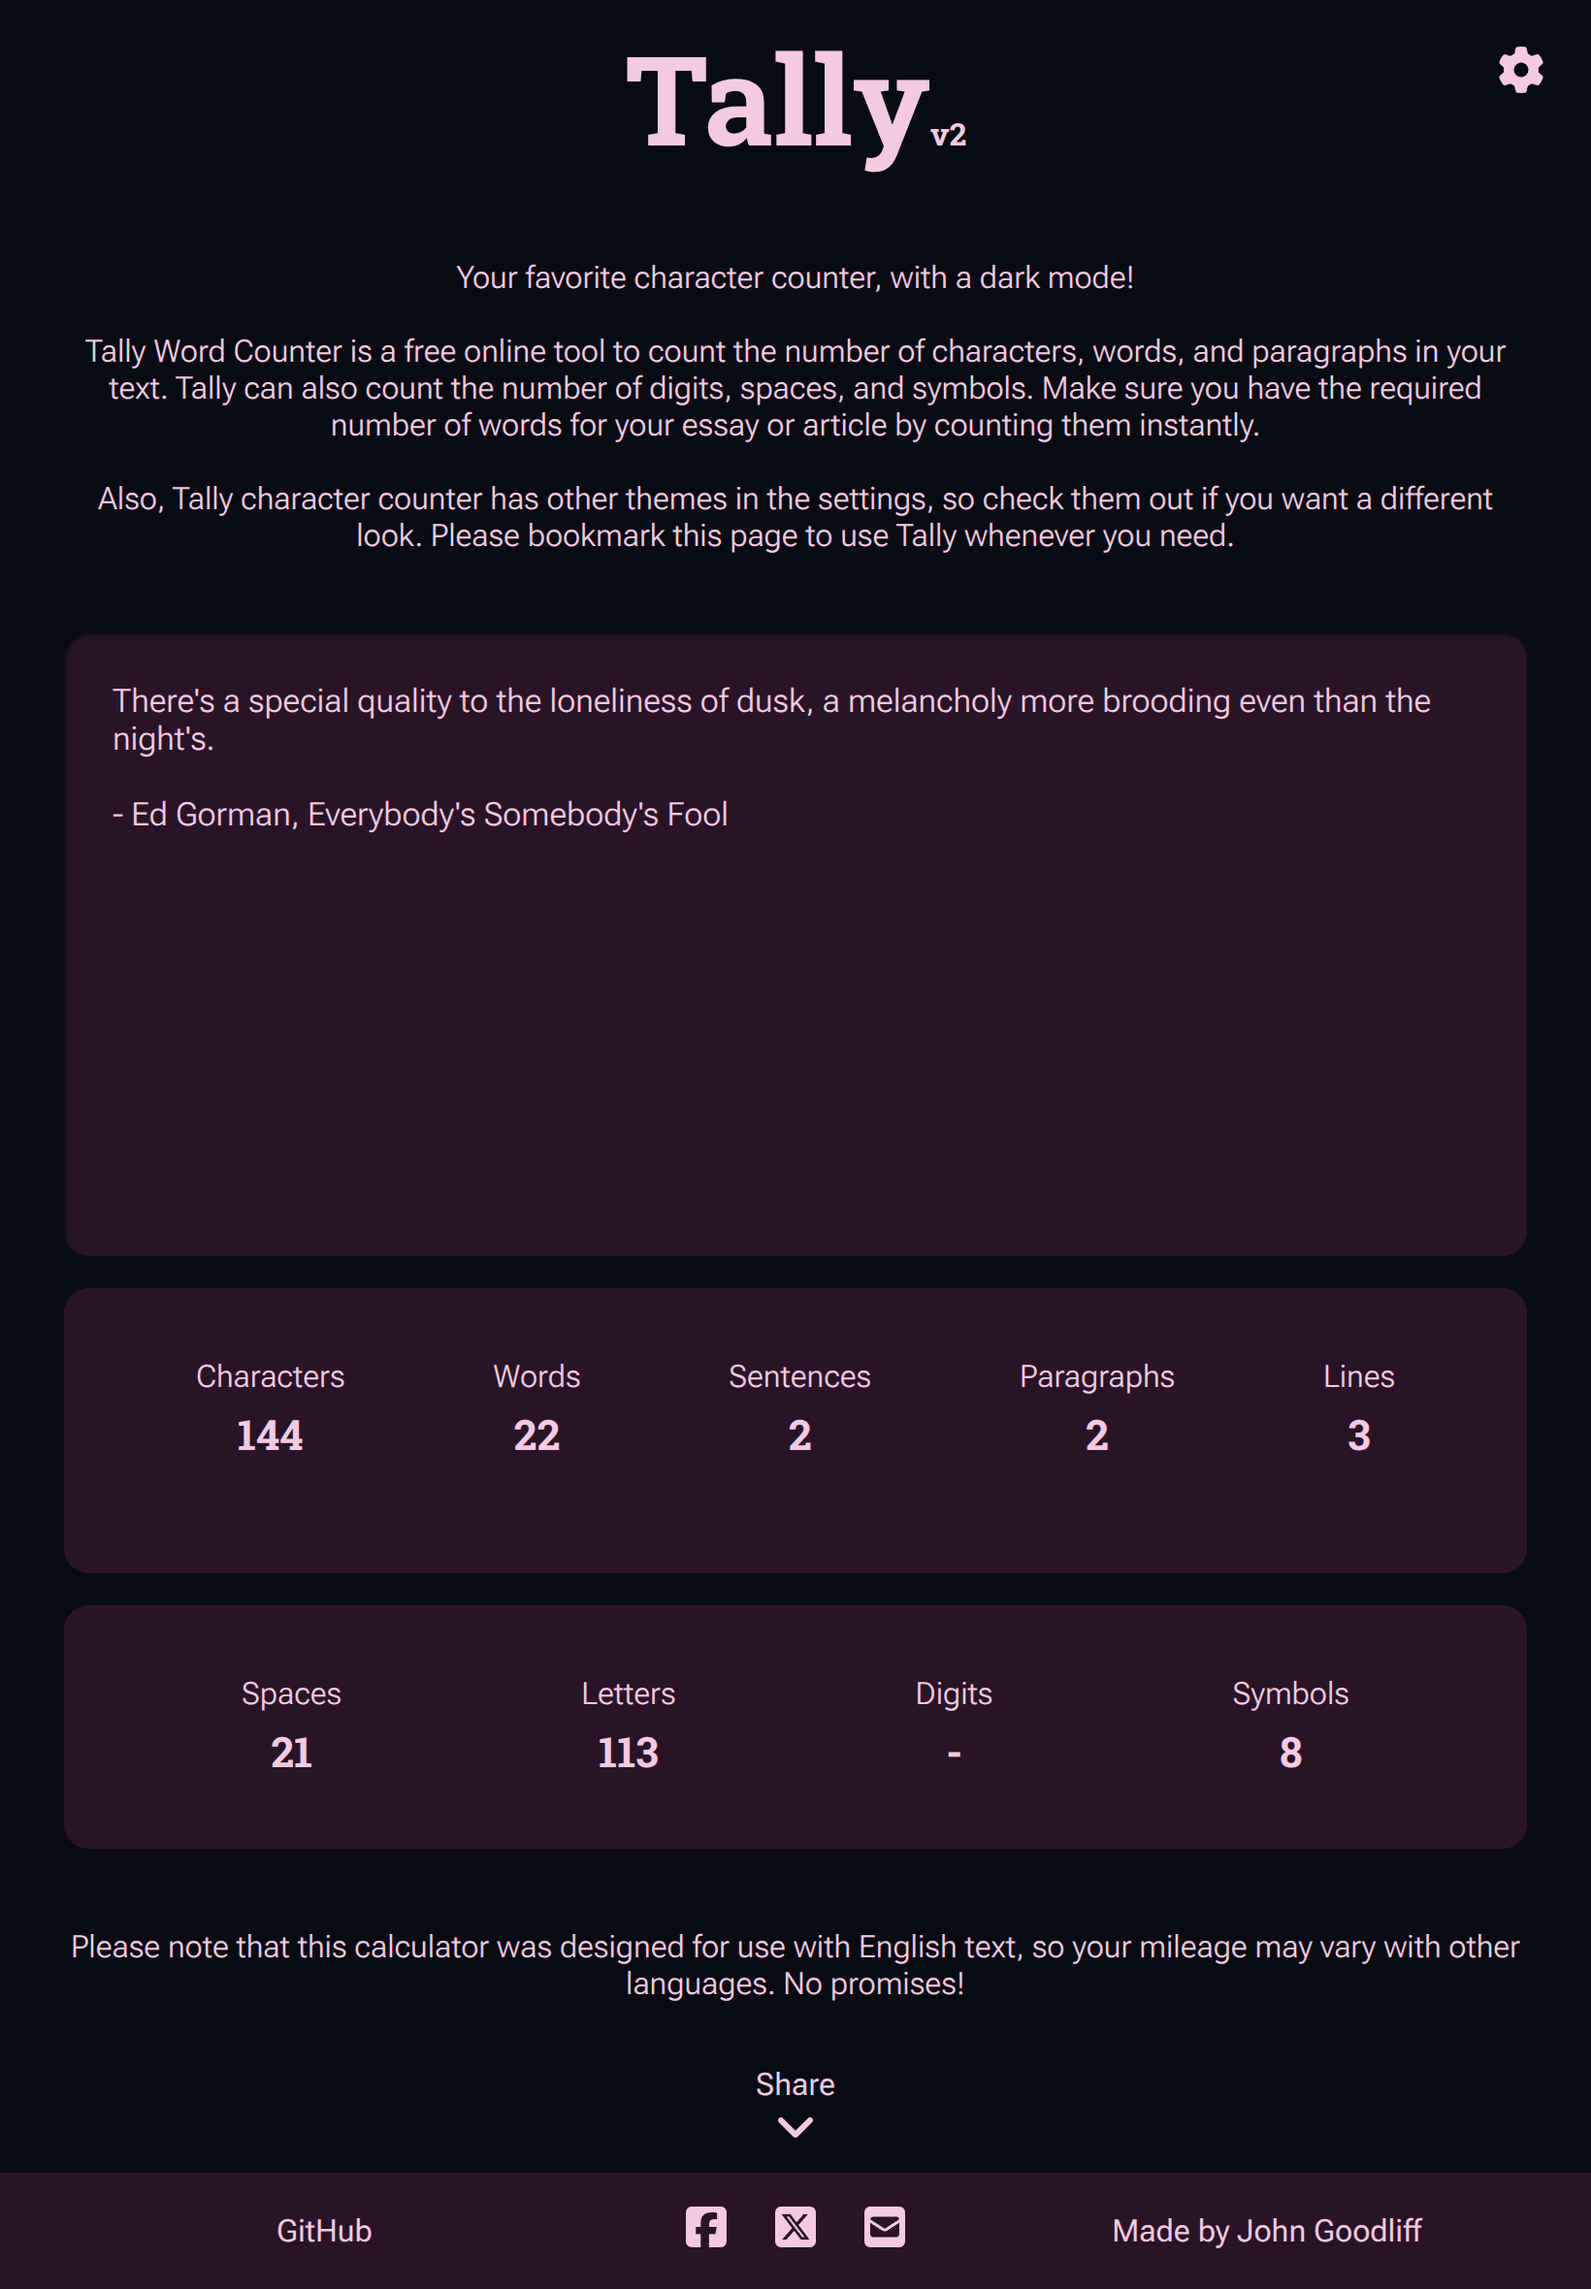
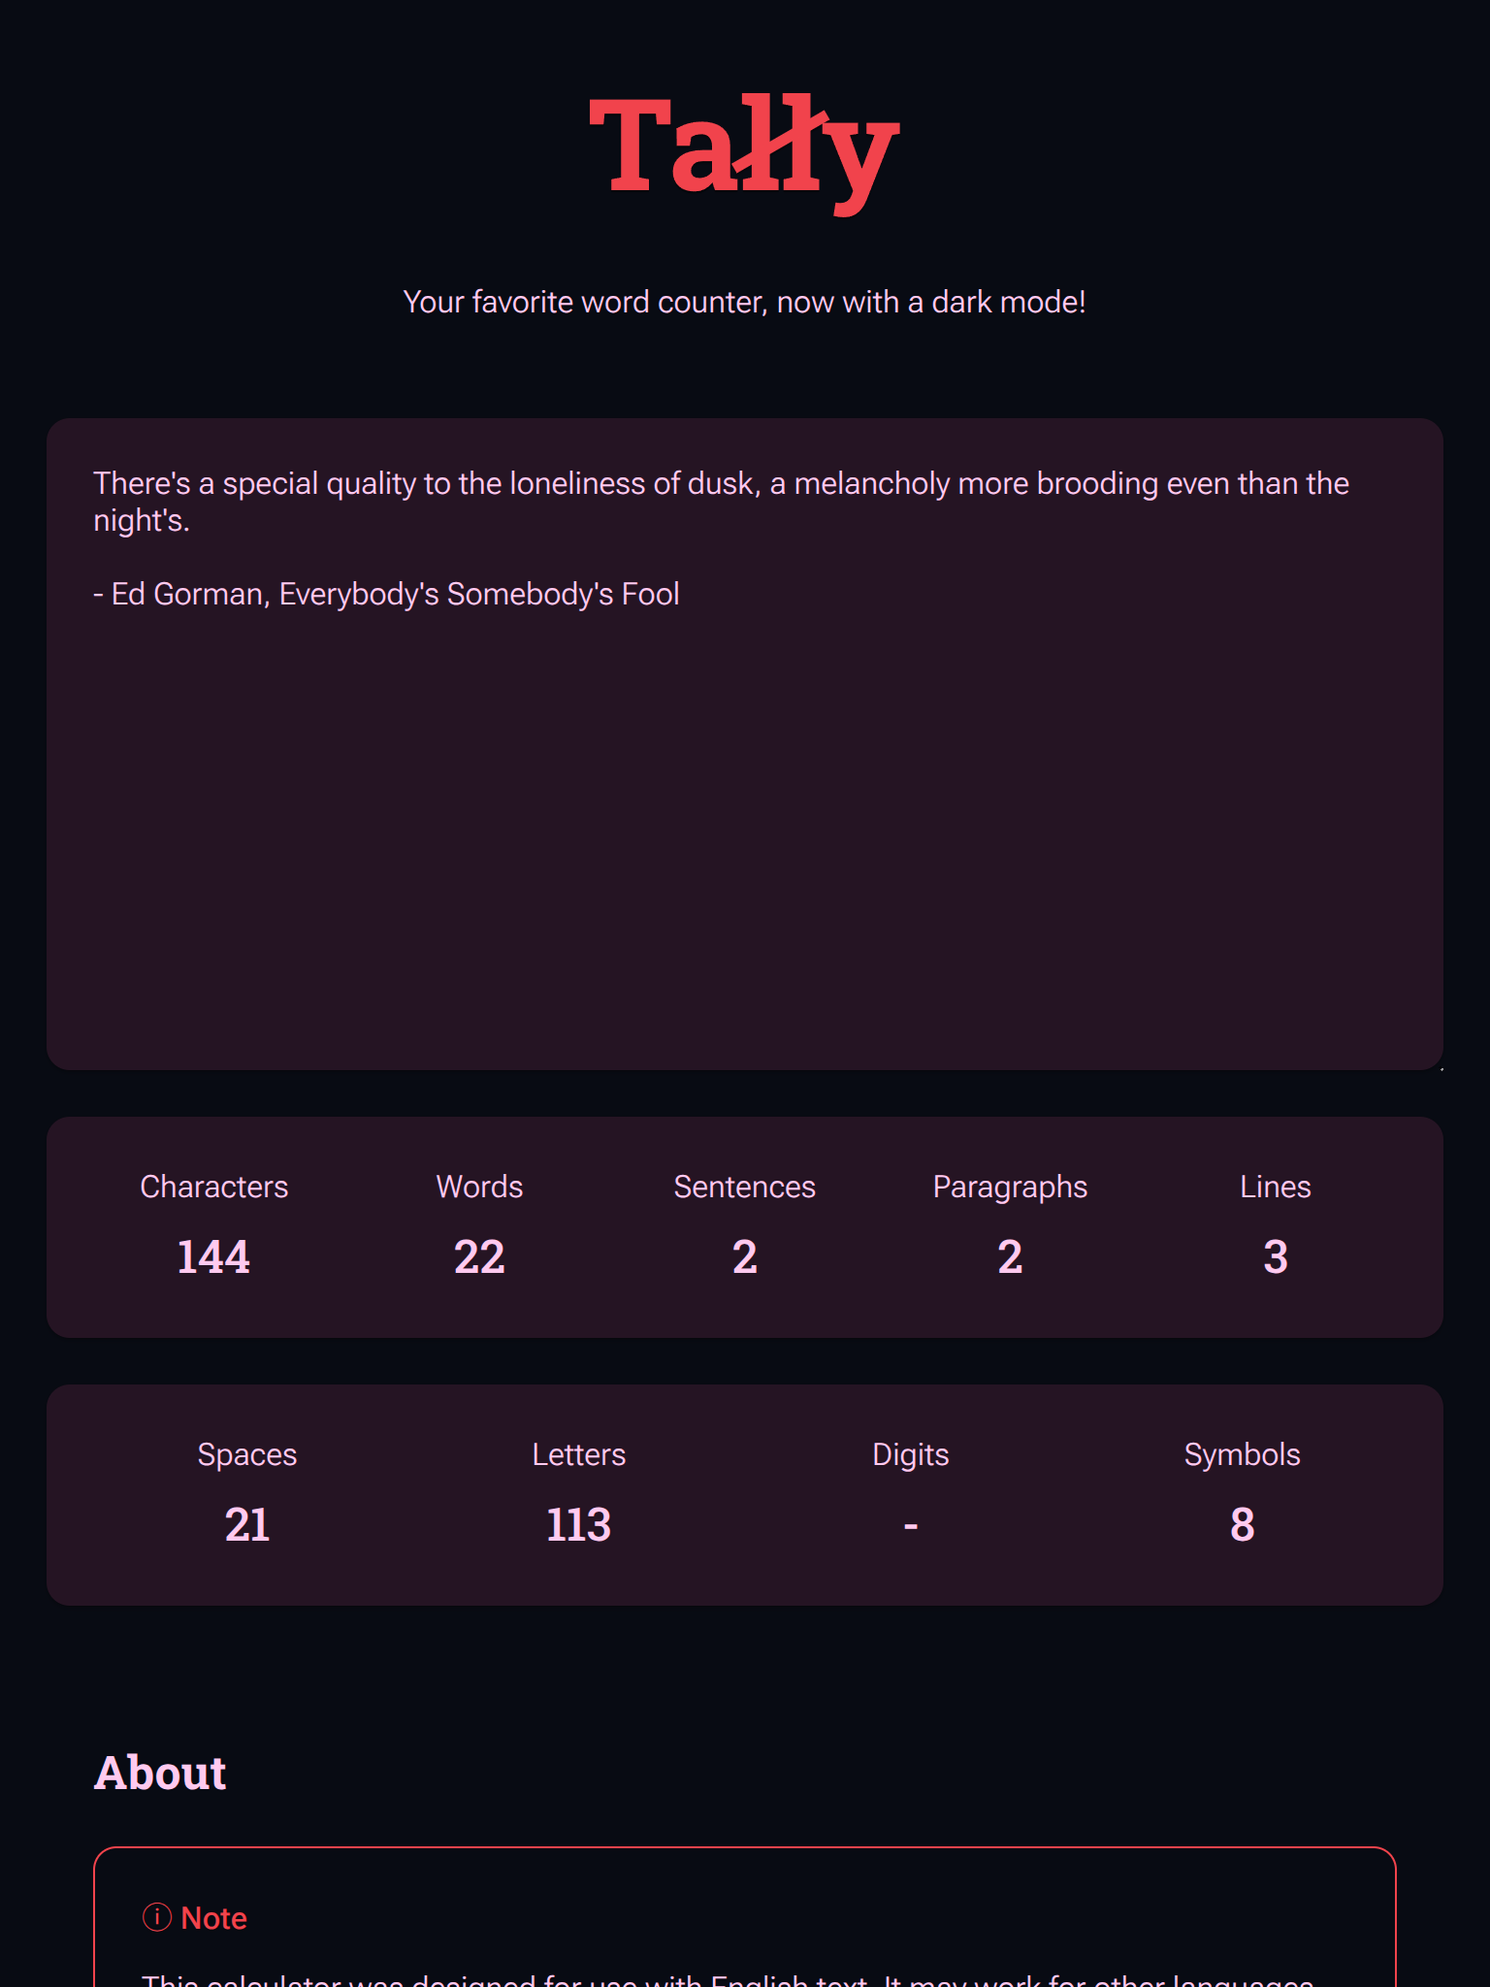
Update screenshots in README

diff --git a/README.md b/README.md
@@ -50,27 +50,34 @@ Also check out the Tally Chrome Extension [here](https://github.com/jerboa88/Tal
 
 ### Screenshots
 
-|                   &#8291;                   |                   &#8291;                   |
-| :-----------------------------------------: | :-----------------------------------------: |
-| ![Black Theme](screenshots/theme_black.png) | ![White Theme](screenshots/theme_white.png) |
-|  ![Dusk Theme](screenshots/theme_dusk.png)  |  ![Teal Theme](screenshots/theme_teal.png)  |
+| ![Screenshot of Tally's dark theme](screenshots/theme_dark.png) | ![Screenshot of Tally's light theme](screenshots/theme_light.png) |
+| --------------------------------------------------------------- | ----------------------------------------------------------------- |
+| _Dark theme - v3_                                               | _Light theme - v3_                                                |
+
+| ![Screenshot of Tally's teal theme](screenshots/theme_teal.png) | ![Screenshot of Tally's dusk theme](screenshots/theme_dusk.png) |
+| --------------------------------------------------------------- | --------------------------------------------------------------- |
+| _Teal theme - v3_                                               | _Dusk theme - v3_                                               |
+
+| ![Screenshot of Tally's available options](screenshots/options.png) | ![Screenshot of Tally's available themes](screenshots/themes.png) |
+| ------------------------------------------------------------------- | ----------------------------------------------------------------- |
+| _Available options  - v3_                                           | _Available themes - v3_                                           |
+|                                                                     |
 
 
 ## Specification
 > [!NOTE]
 > In this specification, we refer to words, characters, spaces, lines, etc. as **_tokens_** for simplicity.
 
-There may be slight differences between the counts generated by Tally and other word counters due to differences in how they are implemented.
+There may be slight variations between the counts generated by Tally and other word counters due to differences in how they are implemented.
 
-The counting function is implemented as a single-pass parser for performance reasons.  State transitions (sentence terminator -> letter, letter -> space, etc.) are used to determine when to increment the counts for each token type.
+The counting function is implemented as a single-pass parser for performance reasons. State transitions (sentence terminator -> letter, letter -> space, etc.) are used to determine when to increment the counts for each token type.
 
-> [!NOTE]
-> The following characters are used to separate tokens:
-> - **Space:** `' '`
-> - **Newline:** `\n`
-> - **End Mark:** `.`, `!`, `?`
->
-> **End of Input** can also be considered a separator because words, sentences, paragraphs, and lines at the end of the input are counted even if not specifically terminated. For example, `Something` is counted as a word, sentence, paragraph, and line.
+The following characters are used to separate tokens:
+- **Space:** `' '`
+- **Newline:** `\n`
+- **End Mark:** `.`, `!`, `?`
+
+**End of Input** can also be considered a separator because words, sentences, paragraphs, and lines at the end of the input are counted even if not specifically terminated. For example, `Something` is counted as a word, sentence, paragraph, and line.
 
 Here is an overview of how we determine the counts for each token type:
 
